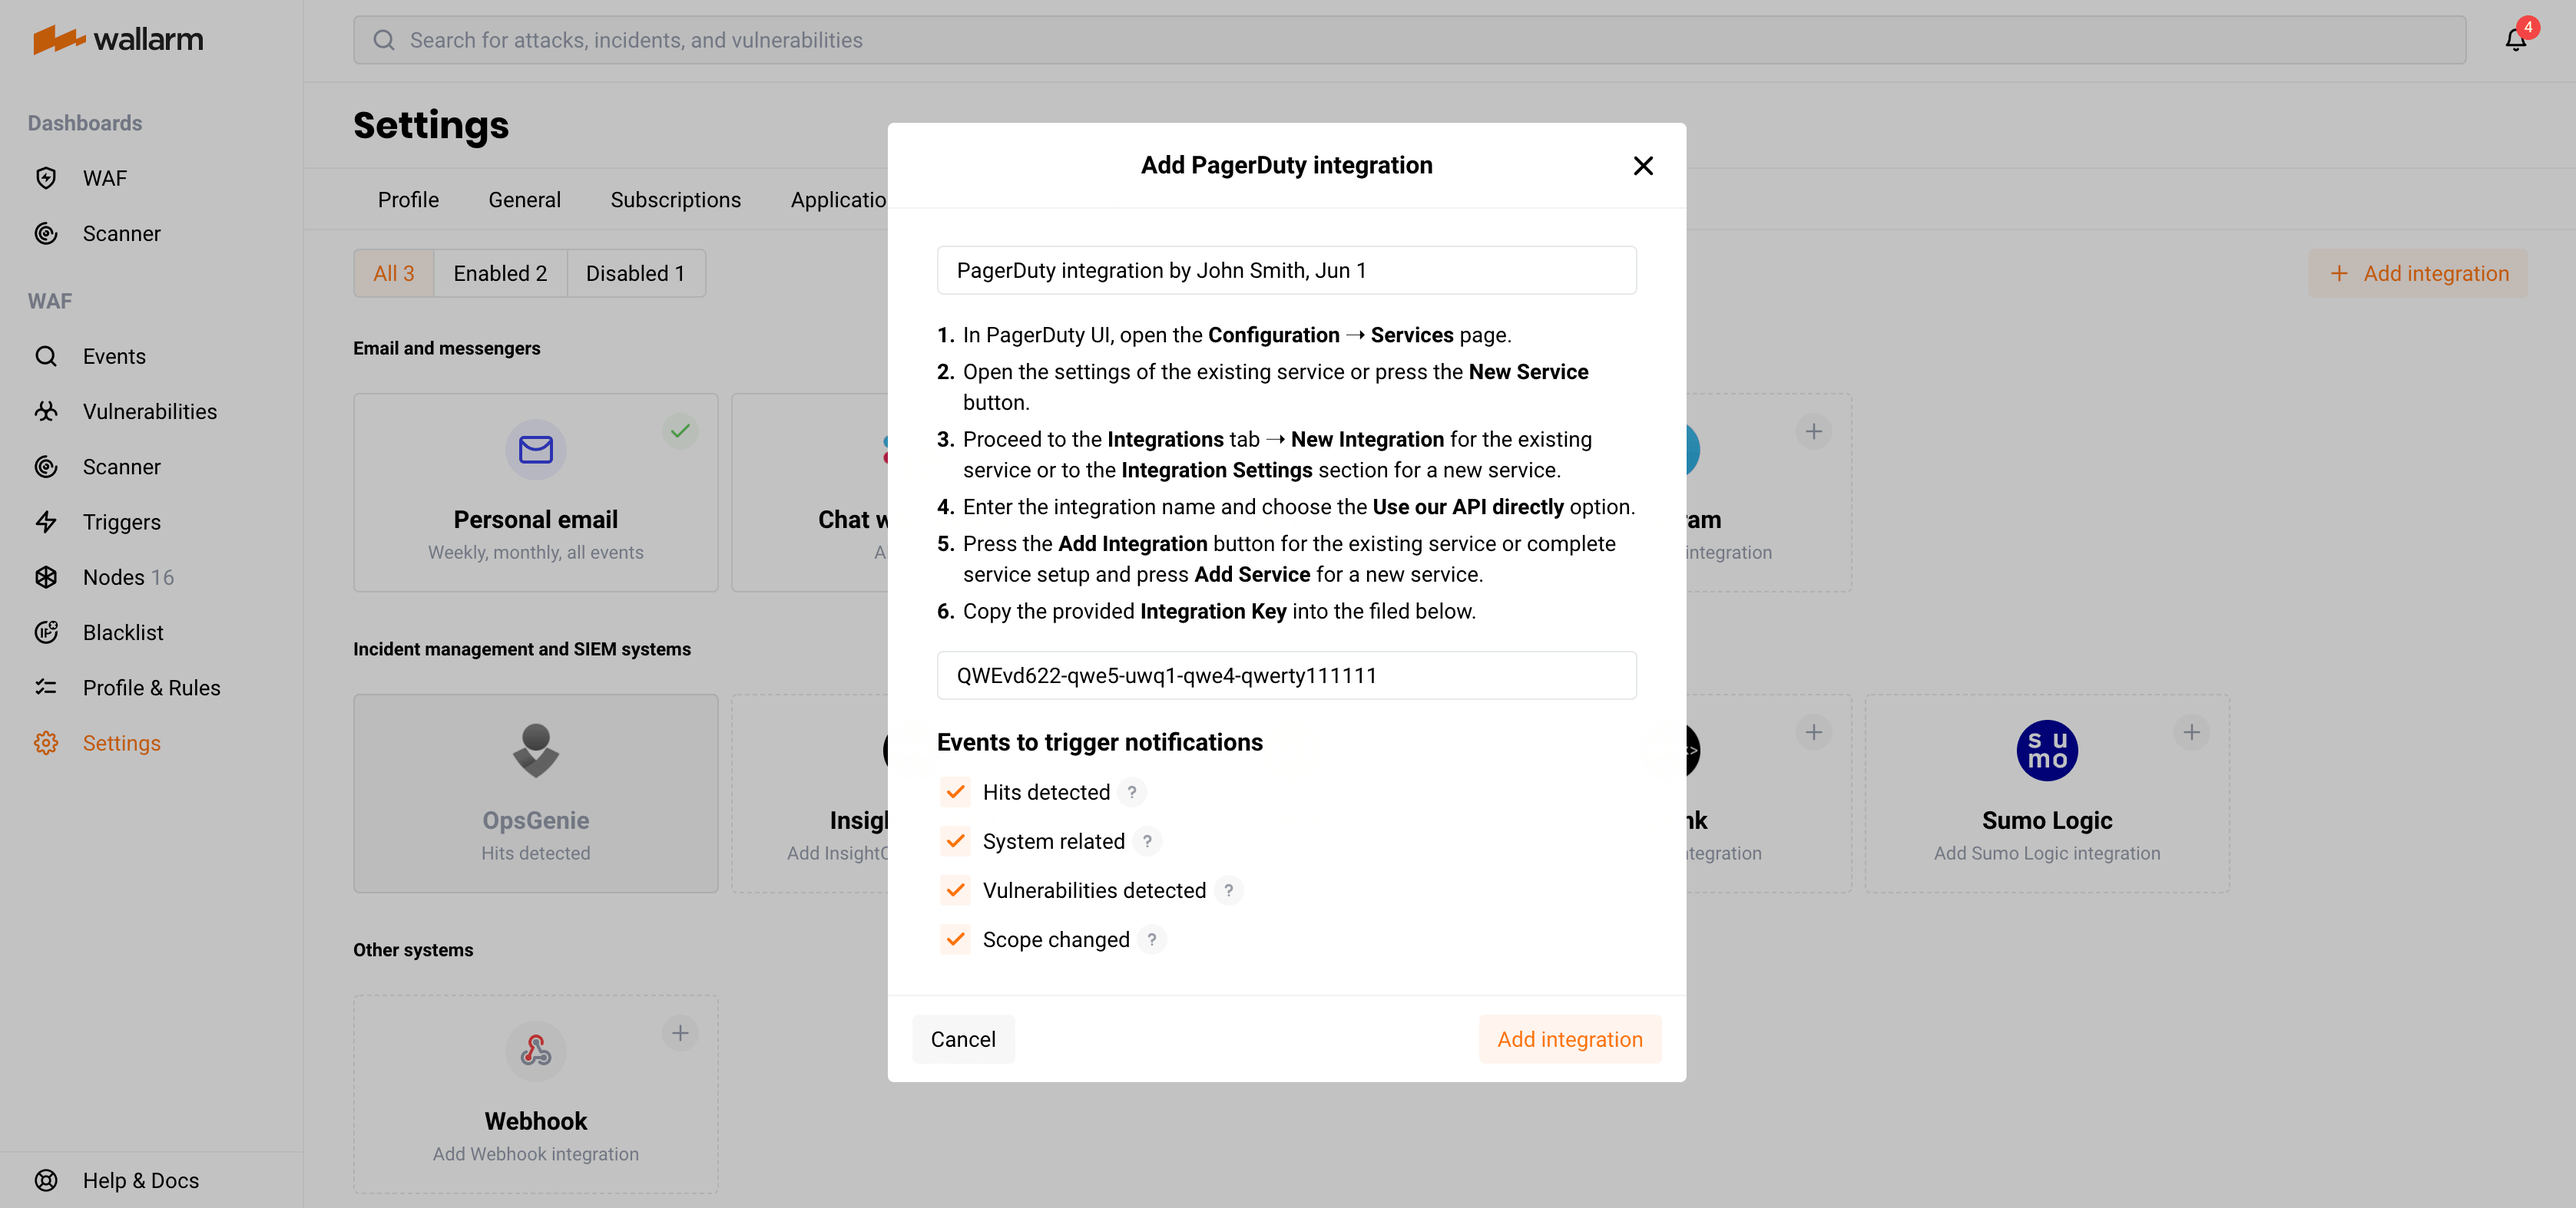
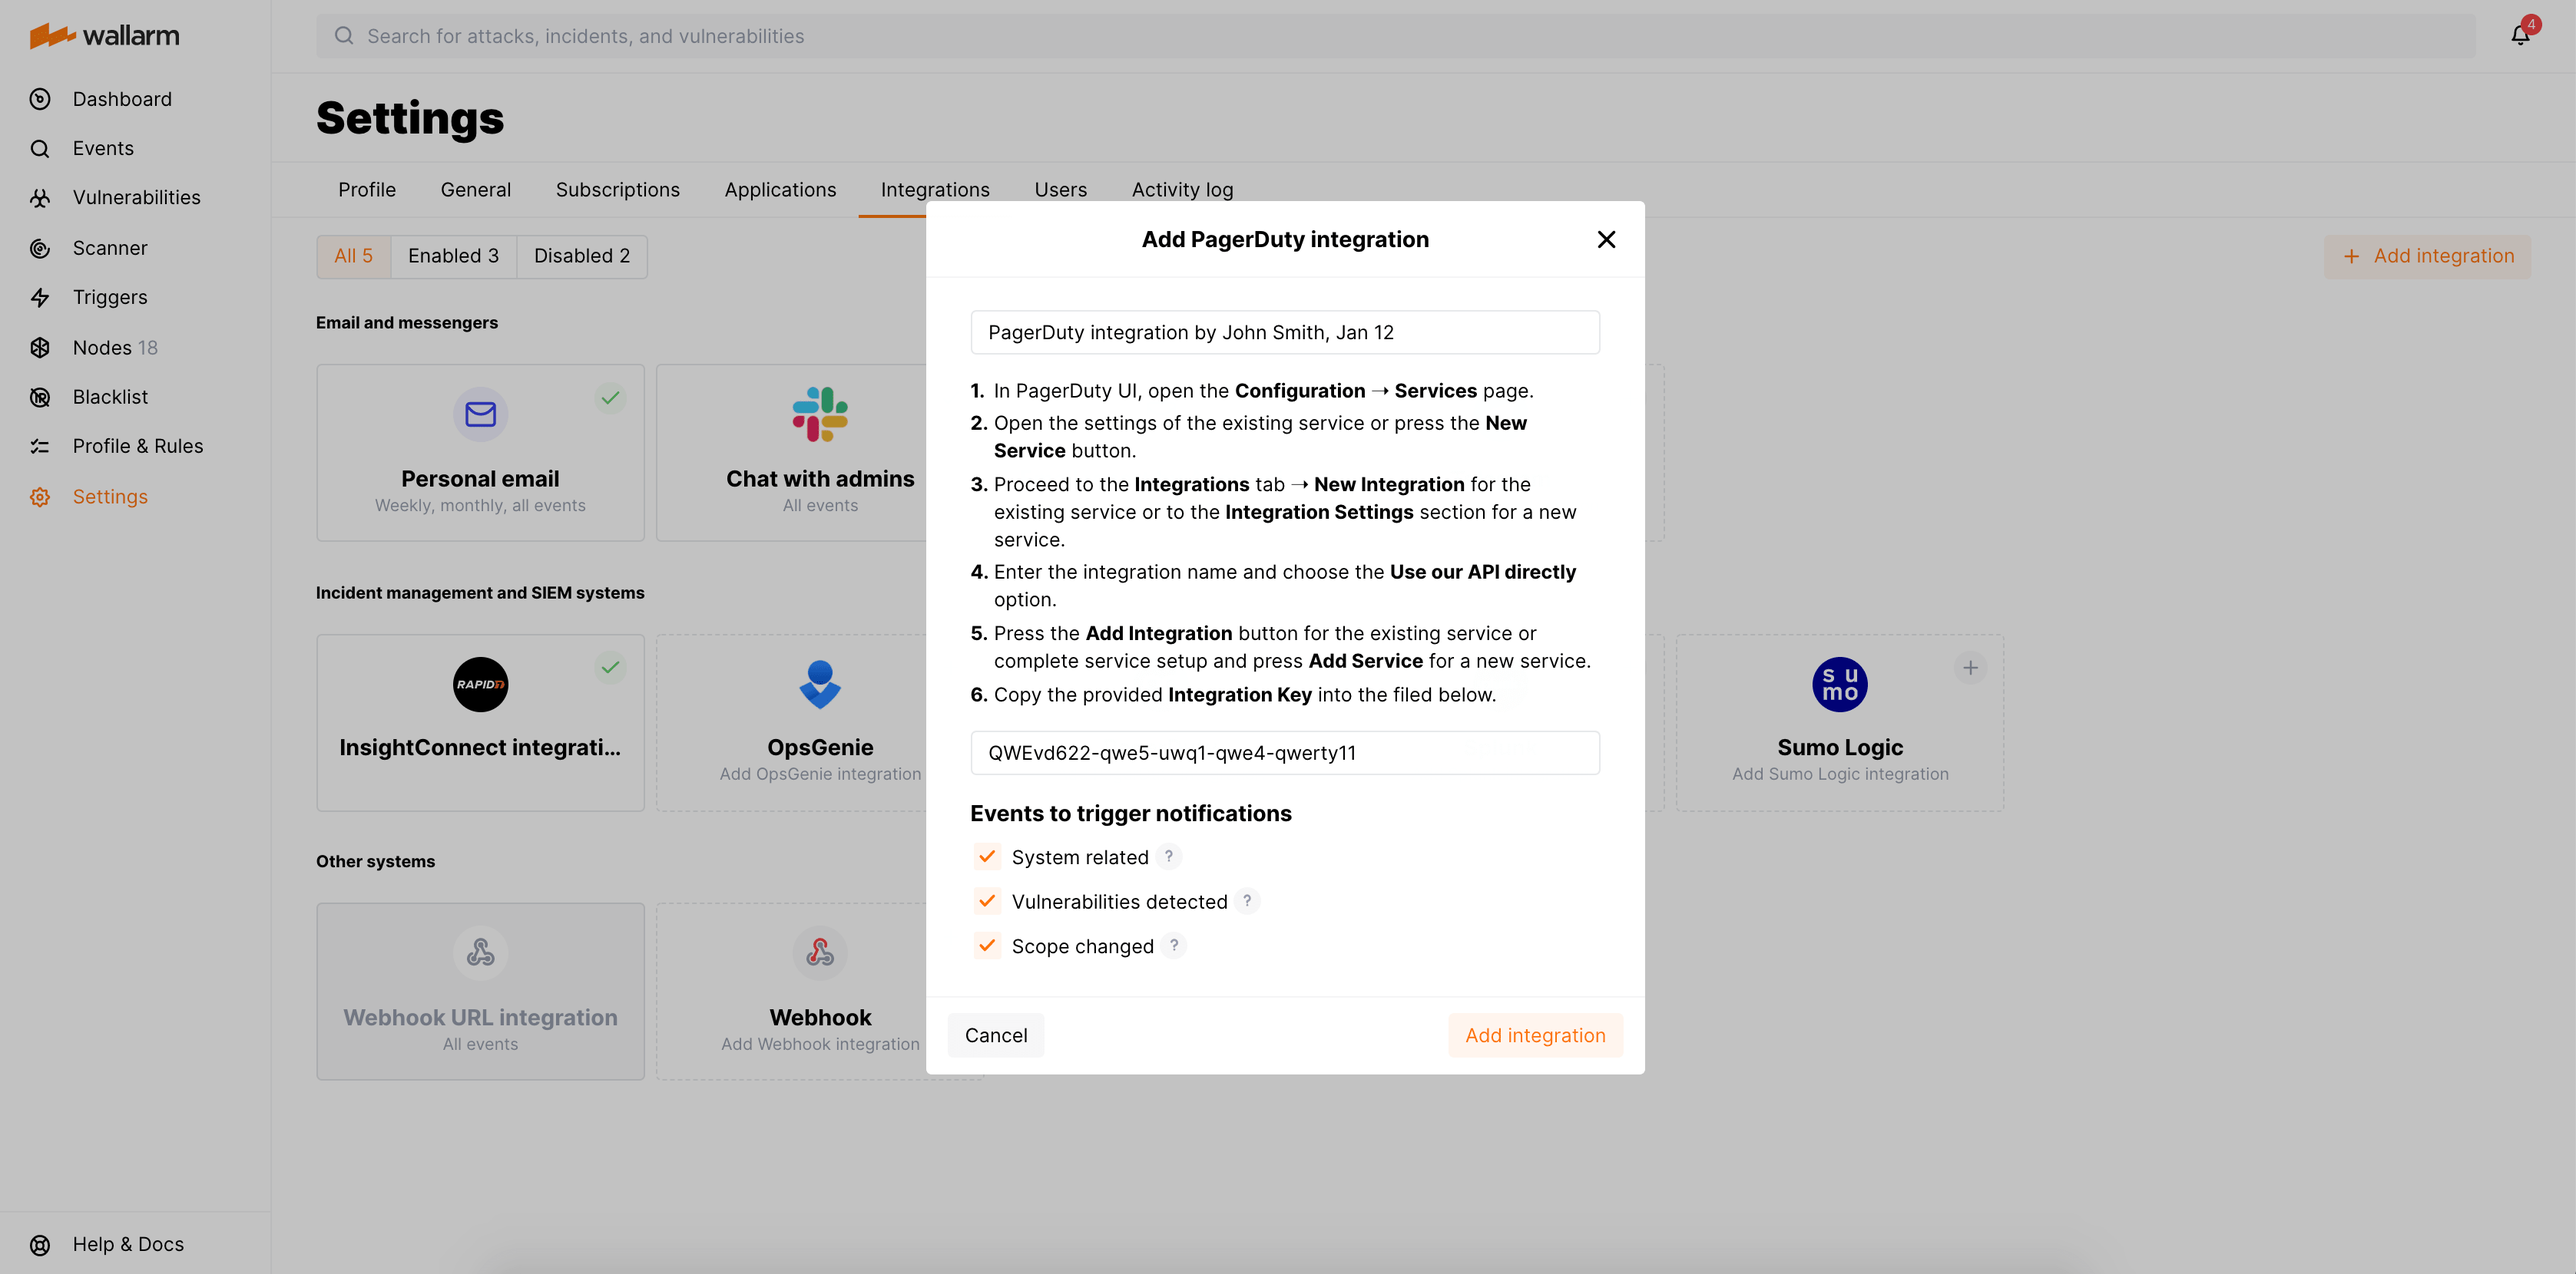
DOCS-1084 delete hit detected event in pagerduty and opsgenie integrations

diff --git a/docs/2.14/user-guides/settings/integrations/pagerduty.md b/docs/2.14/user-guides/settings/integrations/pagerduty.md
@@ -4,7 +4,7 @@
 
 You can set up Wallarm to send incidents to PagerDuty when the following events are triggered:
 
---8<-- "../include/integrations/advanced-events-for-integrations.md"
+--8<-- "../include/integrations/events-for-integrations.md"
 
 ##  Setting up integration
 

diff --git a/docs/2.16/user-guides/settings/integrations/pagerduty.md b/docs/2.16/user-guides/settings/integrations/pagerduty.md
@@ -4,7 +4,7 @@
 
 You can set up Wallarm to send incidents to PagerDuty when the following events are triggered:
 
---8<-- "../include/integrations/advanced-events-for-integrations.md"
+--8<-- "../include/integrations/events-for-integrations.md"
 
 ##  Setting up integration
 

diff --git a/docs/2.14/user-guides/settings/integrations/opsgenie.md b/docs/2.14/user-guides/settings/integrations/opsgenie.md
@@ -2,7 +2,6 @@
 
 You can set up Wallarm to send alerts to OpsGenie when following events are triggered:
 
-* [Hits](../../../glossary-en.md#hit) detected
 * [Vulnerabilities](../../../glossary-en.md#vulnerability) detected
 
 ## Setting up integration

diff --git a/docs/2.16/user-guides/settings/integrations/opsgenie.md b/docs/2.16/user-guides/settings/integrations/opsgenie.md
@@ -2,7 +2,6 @@
 
 You can set up Wallarm to send alerts to OpsGenie when following events are triggered:
 
-* [Hits](../../../glossary-en.md#hit) detected
 * [Vulnerabilities](../../../glossary-en.md#vulnerability) detected
 
 ## Setting up integration
